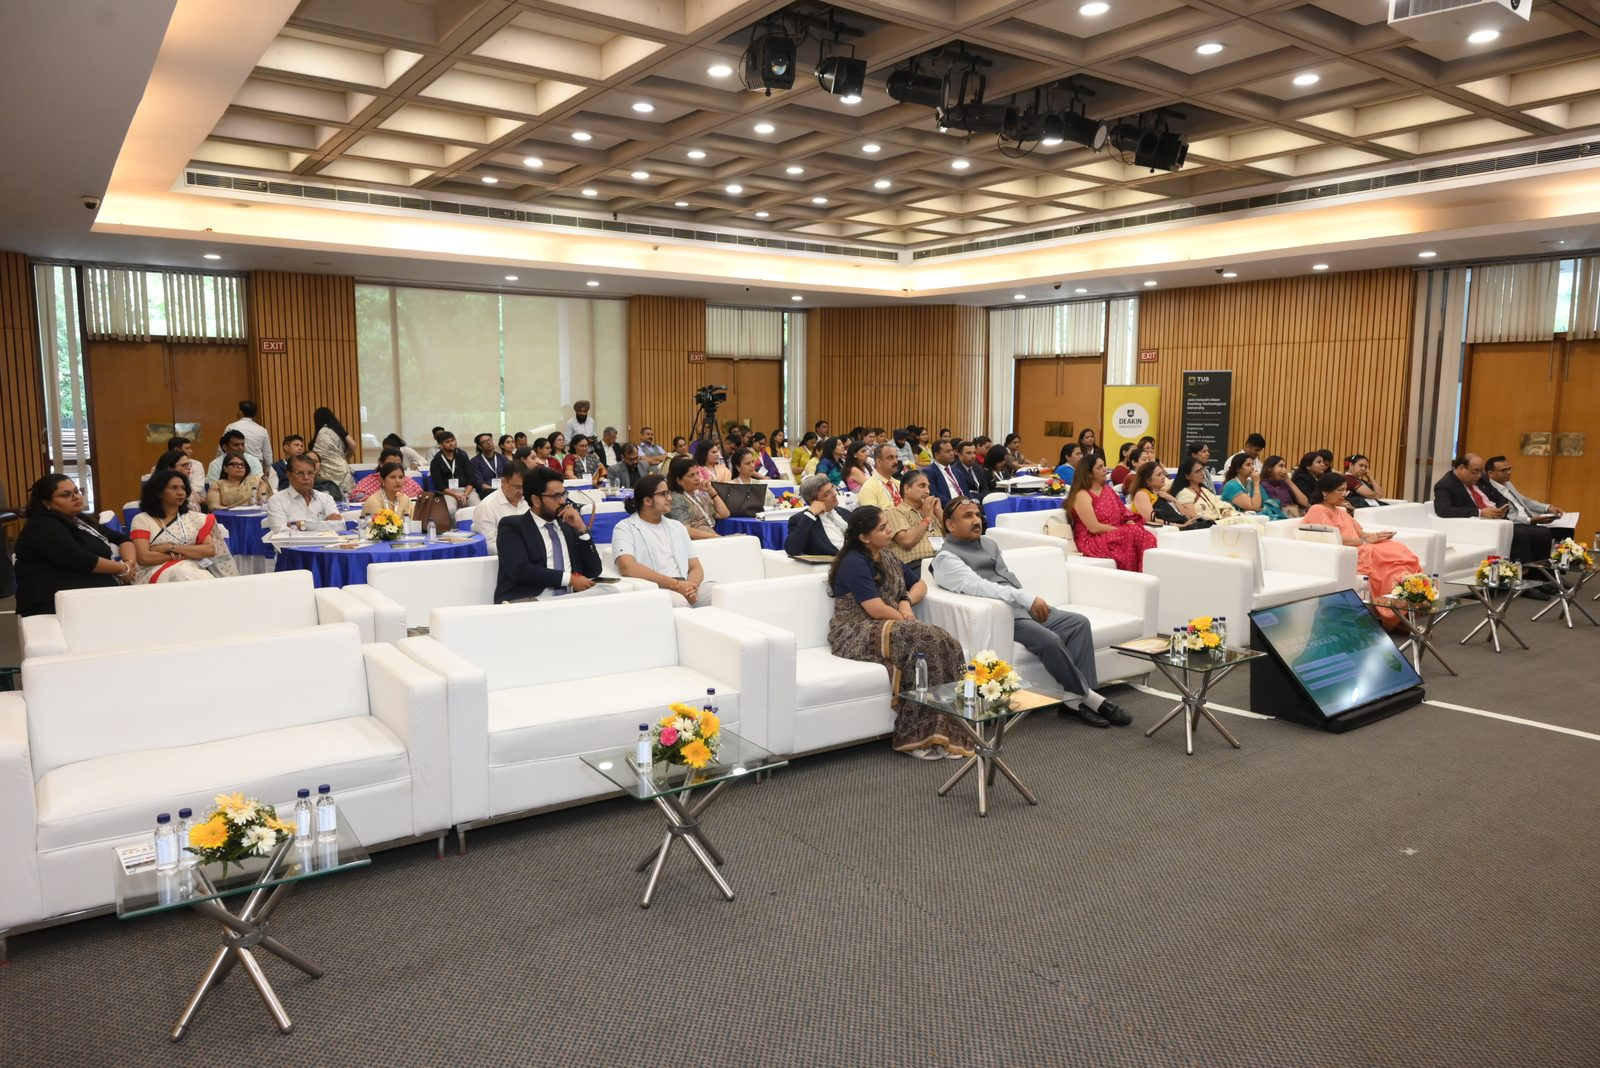
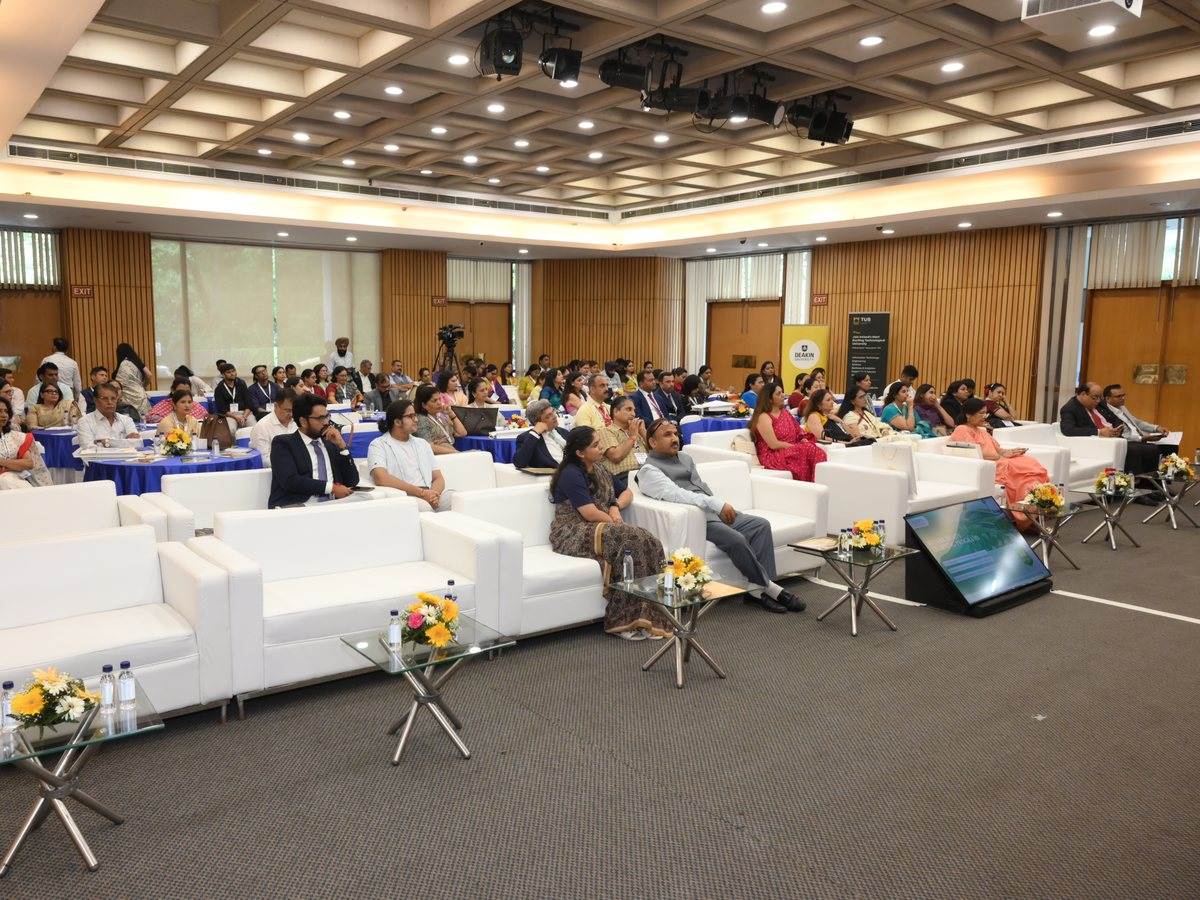
Fill photo frames with cover instead of blurred backdrop; crop programs hero images to exact ratios

diff --git a/src/app/(site)/globals.css b/src/app/(site)/globals.css
@@ -263,9 +263,9 @@ ul, ol { padding: 0; list-style: none; }
     linear-gradient(160deg, color-mix(in srgb, var(--c) 18%, #fff), color-mix(in srgb, var(--c) 38%, #EAF3FC));
 }
 .ph > img { position: absolute; inset: 0; width: 100%; height: 100%; object-fit: cover; z-index: 1; }
-/* fit mode: the whole photo is visible; a blurred copy fills any spare space */
-.ph-fit > .ph-fill { object-fit: cover; filter: blur(18px) saturate(1.25); transform: scale(1.18); opacity: .9; z-index: 1; will-change: transform; }
-.ph-fit > .ph-img { object-fit: contain; z-index: 2; }
+/* fit mode: photos fill their frame cleanly (supply exact-ratio images); the blurred backdrop is no longer used */
+.ph-fit > .ph-fill { display: none; }
+.ph-fit > .ph-img { object-fit: cover; object-position: 50% 40%; z-index: 2; }
 .ph::before {
   content: attr(data-label);
   position: absolute; inset: auto 14px 12px 14px; z-index: 0;
